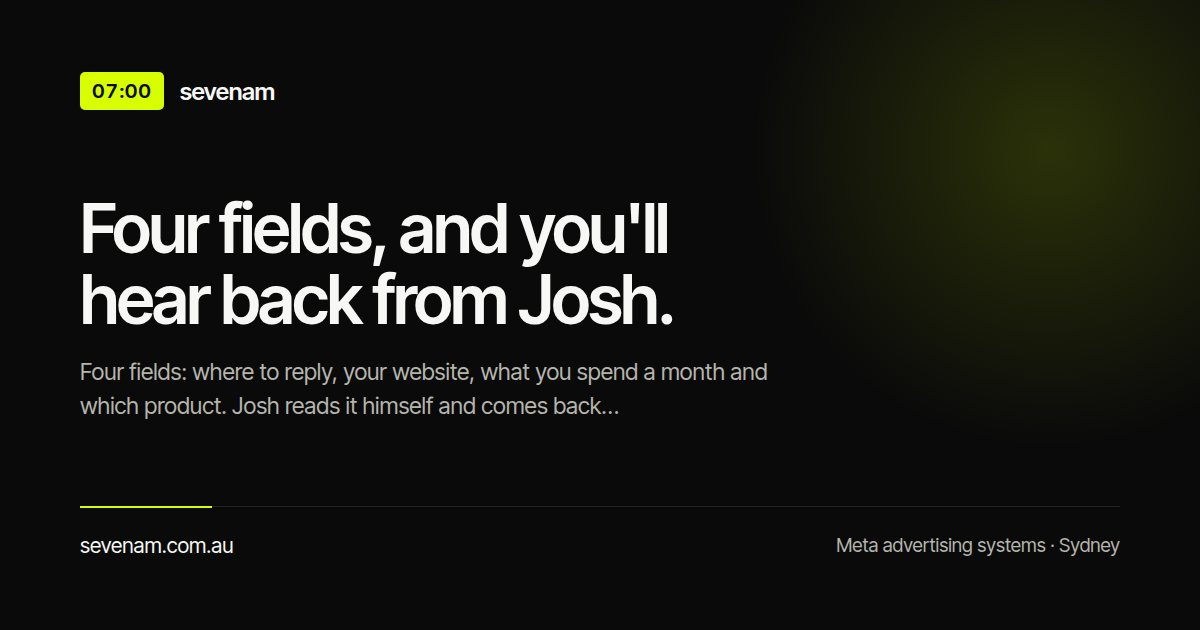
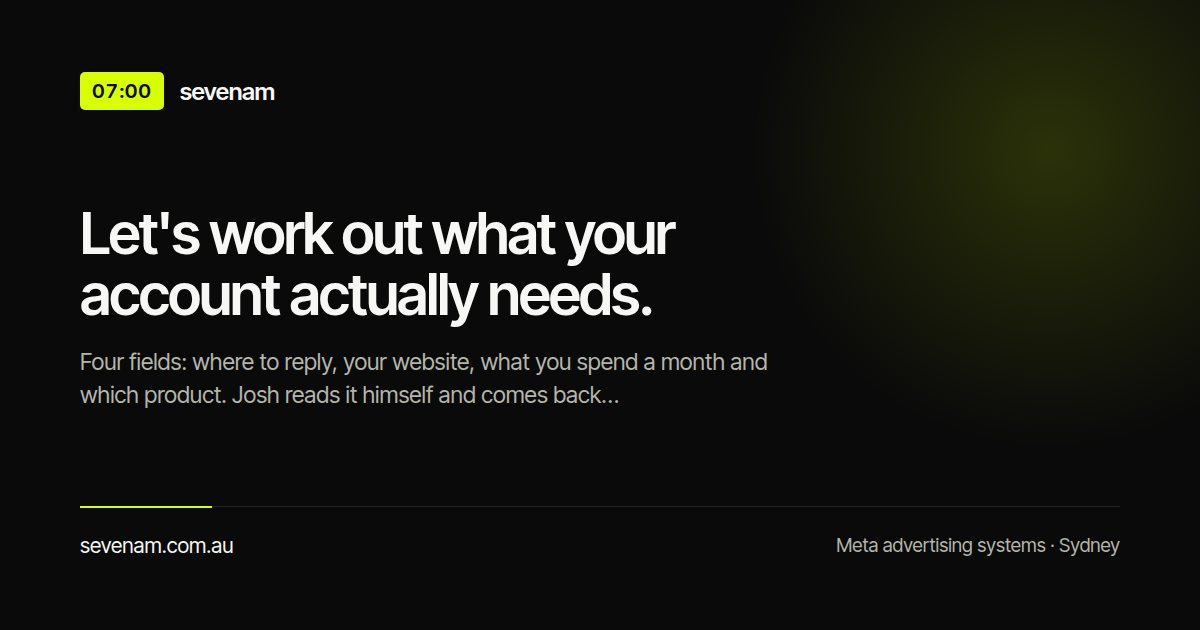
Stop describing the form and say what the page is for
"Four fields, and you'll hear back from Josh" described the mechanics of
a form the visitor can already see. Nobody arrives wanting to fill in
four fields; they arrive because something in their account is not doing
what it should. The headline now offers the thing they came for — a read
on what the account needs — and the lead says what comes back rather than
how many boxes there are.

The acknowledgement email was three short lines and read like a receipt.
It is now the reply a person would write: what happens next, that Josh
reads them himself rather than a queue, what the answer will actually
contain, and that "not yet" is one of the answers he gives. The pricing
call variant got the same treatment.

The three rules on that email are intact and tested against a hostile
lead: no booking link, nothing the submitter typed is echoed back, and
the "hit reply" line still only appears when LEAD_REPLY_TO is set —
without a mailbox behind it that sentence is a lie and the reply bounces.

Rendered all three variants with a payload in every field; no leak.

Claude-Session: https://claude.ai/code/session_01NBJLr3LHAP5y16YMwZtDBD

Changed region(s): [[0.0617, 0.3016, 0.555, 0.5127], [0.0617, 0.5429, 0.6475, 0.6635]]

diff --git a/api/lead.js b/api/lead.js
@@ -149,16 +149,30 @@ async function sendEmail(lead) {
 function confirmationFor(lead, canReply) {
   const call = lead.source === 'pricing-call';
   const reply = canReply
-    ? '\n\nIf you want to add anything first — what you spend a month, what you sell, what is not working — just reply to this email.'
+    ? '\n\nIf there is anything you would like him to know first — what you spend a month, ' +
+      'what you sell, what is working and what is not — just hit reply. The more context he ' +
+      'has in front of him, the more useful that first answer will be.'
     : '';
 
-  const subject = call ? 'Your pricing call — Sevenam' : 'We have your application — Sevenam';
+  const subject = call
+    ? 'Your pricing call — Sevenam'
+    : 'Thanks for your application — Sevenam';
+
   const body = call
-    ? 'Thanks — we have your email.\n\n' +
-      'Josh will reply within a business day with a time, and the numbers ready.' + reply
-    : 'Thanks — we have your application.\n\n' +
-      'Josh reads each one himself and will reply within a business day with a straight read ' +
-      'on which product fits your account.' + reply;
+    ? 'Thanks for getting in touch — we have your details.\n\n' +
+      'Here is what happens next. Josh will come back within a business day with a time that ' +
+      'suits you, and the numbers already worked out against what you are running, so the call ' +
+      'starts at the useful part rather than at the beginning.\n\n' +
+      'Fifteen minutes is usually enough to size the published prices to your account and tell ' +
+      'you whether any of it is worth buying yet. If the honest answer is not yet, he will say ' +
+      'so and tell you what would change that.' + reply
+    : 'Thanks for getting in touch — your application has come through.\n\n' +
+      'Here is what happens next. Josh reads every one of these himself, so it goes straight to ' +
+      'him rather than into a queue.\n\n' +
+      'Within a business day you will get a straight read on your account: what it actually ' +
+      'needs, which of the three products fits, and what that would look like in practice. If ' +
+      'the honest answer is that none of them are right for you yet, he will say so and tell you ' +
+      'what would change that.' + reply;
 
   return { subject, body: body + '\n\n— Sevenam' };
 }

diff --git a/apply.html b/apply.html
@@ -588,8 +588,8 @@ input::-webkit-input-placeholder, textarea::-webkit-input-placeholder { color: #
   </header></div><main style="min-height: 70vh; padding: 132px 32px 120px; background: rgb(10, 10, 10); color: rgb(247, 247, 245);">
   <div style="max-width: 860px; margin: 0px auto;">
     <span style="font-size: 12px; font-weight: 600; letter-spacing: 0.08em; text-transform: uppercase; color: rgb(216, 255, 0);">APPLY</span>
-    <h1 style="margin: 26px 0px 0px; max-width: 20ch; font-size: clamp(32px, 4vw, 56px); font-weight: 600; letter-spacing: -0.035em; line-height: 1.05; color: rgb(255, 255, 255); text-wrap: balance;">Four fields, and you'll hear back from Josh.</h1>
-    <p style="margin: 24px 0px 0px; max-width: 54ch; font-size: 19px; line-height: 1.65; color: rgb(201, 201, 194);">Tell us where to reply, what you're running and what you'd like help with. Josh reads every one himself and comes back with a straight answer and a time that suits you. The prices are already published, so you'll know where you stand before we speak.</p>
+    <h1 style="margin: 26px 0px 0px; max-width: 24ch; font-size: clamp(32px, 4vw, 56px); font-weight: 600; letter-spacing: -0.035em; line-height: 1.05; color: rgb(255, 255, 255); text-wrap: balance;">Let's work out what your account actually needs.</h1>
+    <p style="margin: 24px 0px 0px; max-width: 54ch; font-size: 19px; line-height: 1.65; color: rgb(201, 201, 194);">Tell us where to reply, what you're running and what you'd like help with. Josh reads every one himself and comes back within a business day with a straight read on what would actually move your numbers. The prices are already published, so you'll know where you stand before we speak.</p>
     <p style="margin: 20px 0px 0px; max-width: 58ch; font-size: 16px; line-height: 1.7; color: rgb(85, 85, 79);">You can also ask about the free audit — a proper read of your marketing technology, your systems and what your account is actually doing. We'll tell you whether you qualify. We offer these at our discretion and in limited numbers, so if now isn't the right time we'll say so on the call and tell you what would change that.</p>
     <div id="book-root" style="position: relative; margin-top: 44px;"></div>
 
